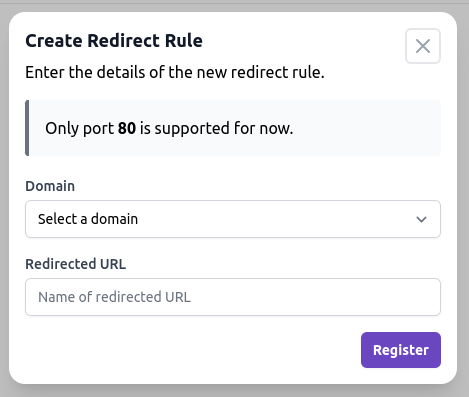
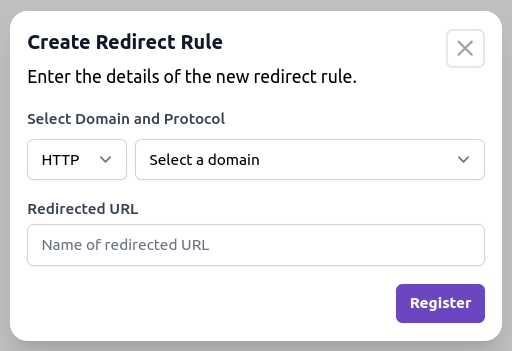
feat: update redirect rules (#28)

diff --git a/docs/dashboard/redirect-rules.md b/docs/dashboard/redirect-rules.md
@@ -19,7 +19,7 @@ It's very easy to add a redirect rule. Just click on **Add New** button and you 
 
 ![Add Redirect Rule](/assets/create-redirect-rule.png)
 
-1. Choose the domain you want to redirect.
+1. Choose the protocol (http/https) and domain you want to redirect.
 2. Choose the url where you want to redirect your domain.
 3. Click on **Register** button and you are done.
 
